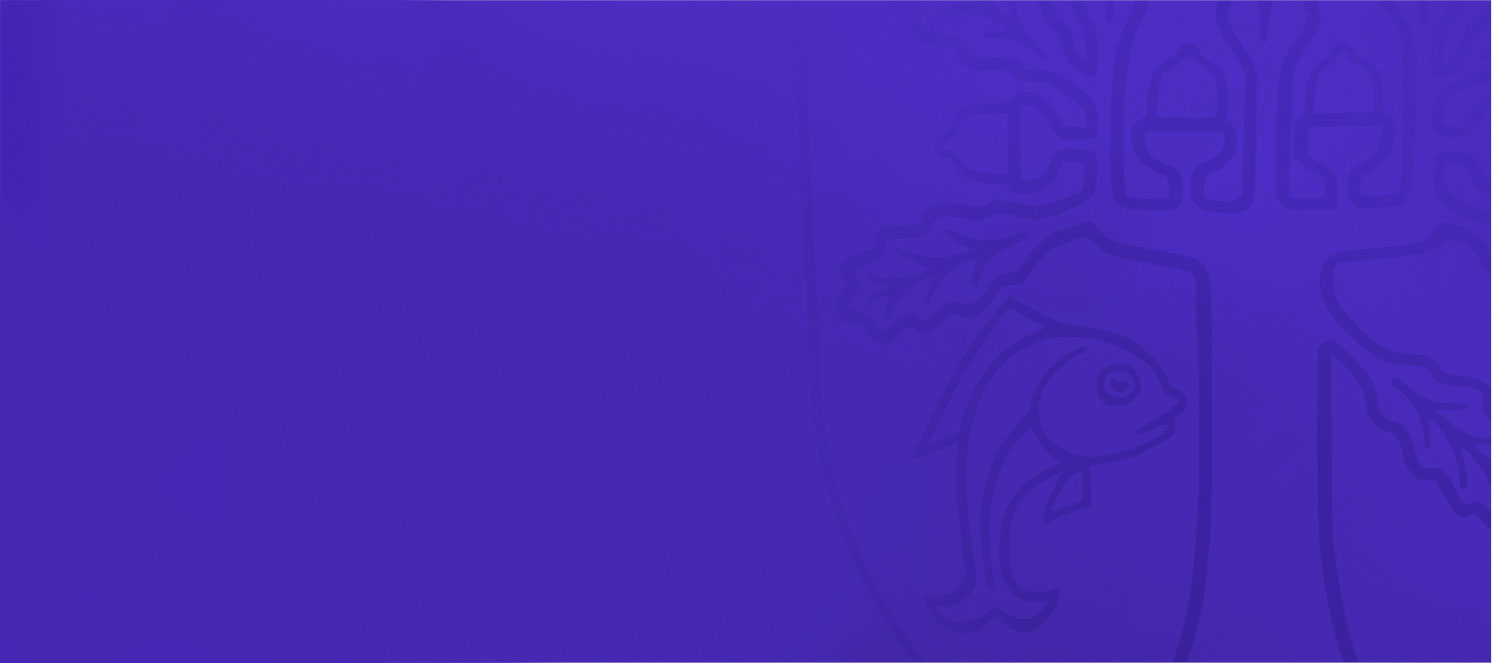
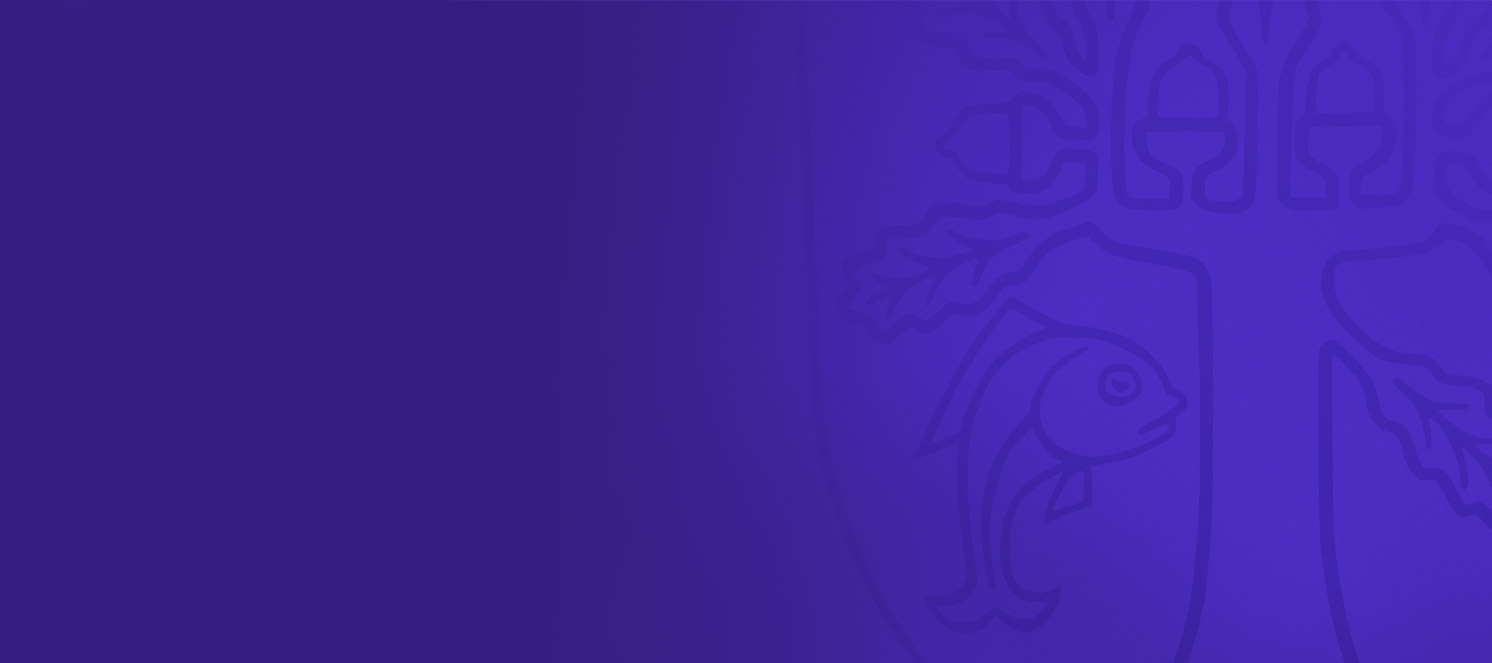
ok

diff --git a/src/assets/scss/base/_font.scss b/src/assets/scss/base/_font.scss
@@ -114,6 +114,22 @@
   font-weight: 700;
   src: url('/assets/fonts/dancing-script-v28-latin_latin-ext-700.woff2') format('woff2'); /* Chrome 36+, Opera 23+, Firefox 39+, Safari 12+, iOS 10+ */
 }
+/* kalam-regular - latin_latin-ext */
+@font-face {
+  font-display: swap; /* Check https://developer.mozilla.org/en-US/docs/Web/CSS/@font-face/font-display for other options. */
+  font-family: 'Kalam';
+  font-style: normal;
+  font-weight: 400;
+  src: url('../fonts/kalam-v17-latin_latin-ext-regular.woff2') format('woff2'); /* Chrome 36+, Opera 23+, Firefox 39+, Safari 12+, iOS 10+ */
+}
+/* kalam-700 - latin_latin-ext */
+@font-face {
+  font-display: swap; /* Check https://developer.mozilla.org/en-US/docs/Web/CSS/@font-face/font-display for other options. */
+  font-family: 'Kalam';
+  font-style: normal;
+  font-weight: 700;
+  src: url('../fonts/kalam-v17-latin_latin-ext-700.woff2') format('woff2'); /* Chrome 36+, Opera 23+, Firefox 39+, Safari 12+, iOS 10+ */
+}
 
 h1 { font-size: clamp(2.15rem, 3.0000vw + 1.1750rem, 4.5rem); }
 h2 { font-size: clamp(1.55rem, 2.0000vw + 1.1750rem, 2.85rem); }

diff --git a/src/assets/scss/components/_description.scss b/src/assets/scss/components/_description.scss
@@ -14,13 +14,19 @@
         flex-direction: column;
         align-items: flex-start;
         gap:2rem;
+        .fontImg{
+            width:50%;
+            margin:auto;
+        }
         h1{
-            font-family: 'Dancing Script';
-            font-weight:700;
-            line-height:4.5rem;
-            font-size: clamp(1.75rem, -0.2143rem + 6.2857vw, 4.5rem);
+            font-family: 'Kalam';
+            font-weight:300;
+            line-height:clamp(1.75rem, -0.2143rem + 6.2857vw, 3.5rem);;
+            font-size: clamp(1.75rem, -0.2143rem + 6.2857vw, 3.5rem);
             color: #c7a77b;
-            font-style:italic;
+            word-spacing:-0.2ch;
+            text-wrap:pretty;
+
         }
         h2{
             font-size: clamp(1.25rem, 0.5357rem + 2.2857vw, 2.25rem);
@@ -80,7 +86,7 @@
         .column{
             h2{
                 width:100%;
-                text-align: center;
+                text-align: left;
             }
             .images{
                 margin:auto;

diff --git a/src/components/Description.vue b/src/components/Description.vue
@@ -1,8 +1,8 @@
 <template>
     <Section anchor="Description" class="description" grid="2">
         <div class="column">
-            <NuxtImg src="/images/description/text.svg"/>
-            <h2>{{ $t('description.left.title.first') }}<br/>{{ $t('description.left.title.second') }}</h2>
+            <h1>"{{ $t('description.quote.first') }} {{ $t('description.quote.second') }} {{ $t('description.quote.third') }} {{ $t('description.quote.fourth') }}"</h1>
+            <h2>{{ $t('description.left.title.first') }} {{ $t('description.left.title.second') }}</h2>
             <p>{{ $t('description.left.para1') }}</p>
             <p>{{ $t('description.left.para2') }}</p>
         </div>

diff --git a/src/assets/scss/components/_about.scss b/src/assets/scss/components/_about.scss
@@ -97,6 +97,7 @@
         align-items: center;
         z-index:2;
         margin-top:63.5px;
+        margin-bottom:5rem;
         color:white;
         border:2px solid $secondary-color;
         border-radius: 17px;
@@ -166,9 +167,6 @@
           align-items: center;
         }
       }
-      &--readMore{
-        margin-bottom:1rem;
-      }
     }
   }
   @media screen and (min-width:1921px){
@@ -177,8 +175,9 @@
       margin:auto;
     }
   }
-  @media screen and (max-width:1376px){
+  @media screen and (max-width:1800px){
     padding:0 1.5rem;
+    padding-top:5rem;
     &__content{
       margin:auto;
       max-width:1300px;

diff --git a/src/assets/scss/abstracts/_variables.scss b/src/assets/scss/abstracts/_variables.scss
@@ -11,6 +11,7 @@ $dark-light: color.adjust($dark-color, $lightness: 10%);
 $primary-color: #351e7f;
 $primary-dark: color.adjust($primary-color, $lightness: -10%);
 $primary-light: color.adjust($primary-color, $lightness: 10%);
+$primary-lighter: color.adjust($primary-color, $lightness: 20%);
 
 $secondary-color: #ff7418;
 $secondary-dark: color.adjust($secondary-color, $lightness: -10%);

diff --git a/src/assets/scss/layout/_navbar.scss b/src/assets/scss/layout/_navbar.scss
@@ -6,7 +6,7 @@
   letter-spacing: 1px;
   font-family: 'Mona Sans';
   padding: 2rem 8rem 6rem 5rem;
-  background:linear-gradient(90deg, #2f1b70, $primary-color, $primary-dark);
+   background:radial-gradient(circle at bottom, #3a1ba0 0%, #220f5a 75%);
   .nav{
     display:flex;
     flex-direction: row;

diff --git a/src/assets/scss/base/_reset.scss b/src/assets/scss/base/_reset.scss
@@ -11,7 +11,7 @@
 }
 
 body {
-  background-color: #4829b2;
+  background-color: #361E80;
   font-family: $font;
   color: white;
   margin: 0;

diff --git a/src/assets/scss/layout/_footer.scss b/src/assets/scss/layout/_footer.scss
@@ -177,4 +177,7 @@
       }
     }
   }
+  @media screen and (max-width:1400px){
+    padding:5rem 2rem;
+  }
 }
